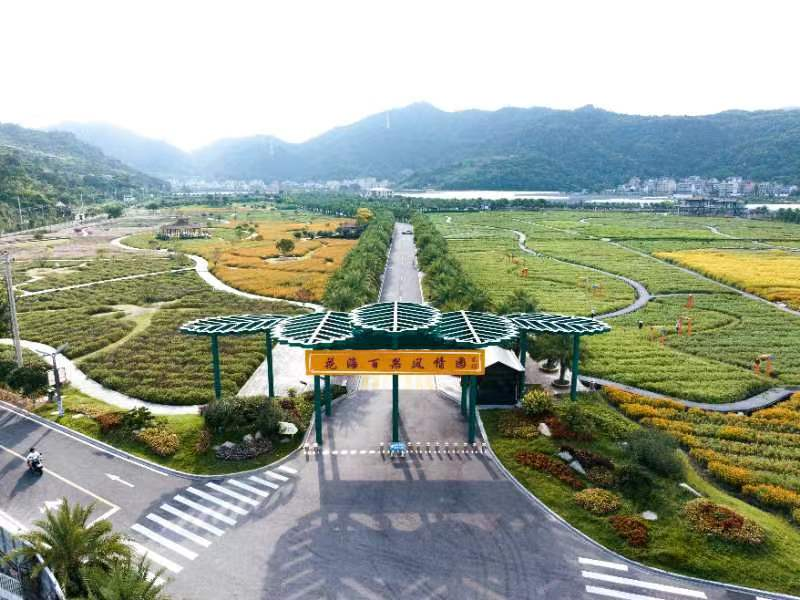
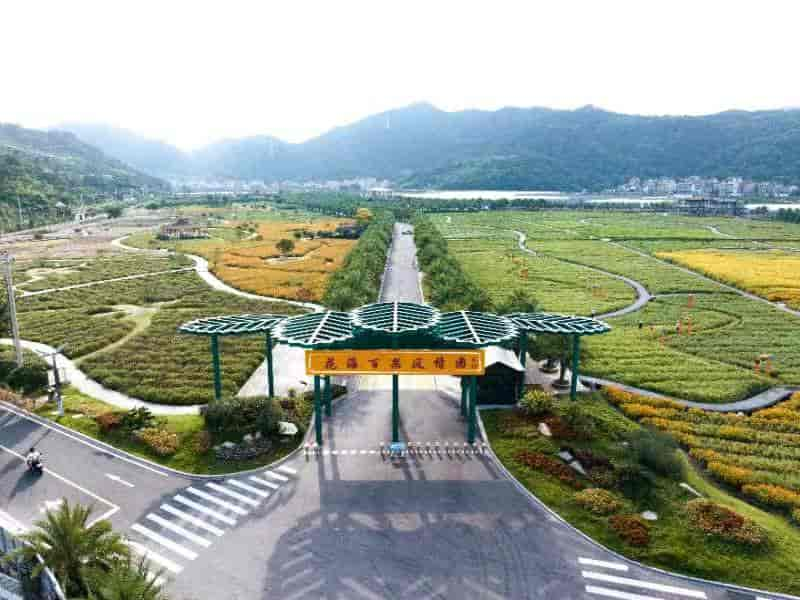
feat: 压缩图片

diff --git a/wxapp.html b/wxapp.html
@@ -1,6 +1,6 @@
 <html>
 <head>
-    <title>wxceea2af1191e2fb8</title>
+    <title>打开小程序</title>
     <meta http-equiv="Content-Type" content="text/html; charset=utf-8">
     <meta name="viewport" content="width=device-width, user-scalable=no, initial-scale=1, maximum-scale=1">
     <script>
@@ -12,6 +12,8 @@
     <!-- weui 样式 -->
     <link rel="stylesheet" href="https://res.wx.qq.com/open/libs/weui/2.4.1/weui.min.css"></link>
     <!-- 调试用的移动端 console -->
+    <script src="https://cdn.jsdelivr.net/npm/eruda"></script>
+    <script>eruda.init();</script>
     <!-- 公众号 JSSDK -->
     <script src="https://res.wx.qq.com/open/js/jweixin-1.6.0.js"></script>
     <!-- 云开发 Web SDK -->
@@ -59,7 +61,7 @@
 
                 wx.config({
                     // debug: true, // 调试时可开启
-                    appId: 'wxceea2af1191e2fb8',
+                    appId: 'wxe5f52902cf4de896',
                     timestamp: 0, // 必填，填任意数字即可
                     nonceStr: 'nonceStr', // 必填，填任意非空字符串即可
                     signature: 'signature', // 必填，填任意非空字符串即可
@@ -79,9 +81,9 @@
                     // 必填，表示是未登录模式
                     identityless: true,
                     // 资源方 AppID
-                    resourceAppid: 'wx5899bdb8721621d6',
+                    resourceAppid: 'wxe5f52902cf4de896',
                     // 资源方环境 ID
-                    resourceEnv: 'cloud-app-8g34wuelb1332a6c',
+                    resourceEnv: 'postpay-2g5hm2oxbbb721a4',
                 })
                 await c.init()
                 window.c = c
@@ -190,7 +192,7 @@
     <div id="wechat-web-container" class="hidden">
         <p class="">点击以下按钮打开 “小程序示例”</p>
         <!-- 跳转小程序的开放标签。文档 https://developers.weixin.qq.com/doc/offiaccount/OA_Web_Apps/Wechat_Open_Tag.html -->
-        <wx-open-launch-weapp id="launch-btn" username="gh_56b2c43416a4 " path="/pages/index/index">
+        <wx-open-launch-weapp id="launch-btn" username="gh_d43f693ca31f" path="/page/component/index">
             <template>
                 <button style="width: 200px; height: 45px; text-align: center; font-size: 17px; display: block; margin: 0 auto; padding: 8px 24px; border: none; border-radius: 4px; background-color: #07c160; color:#fff;">打开小程序</button>
             </template>
